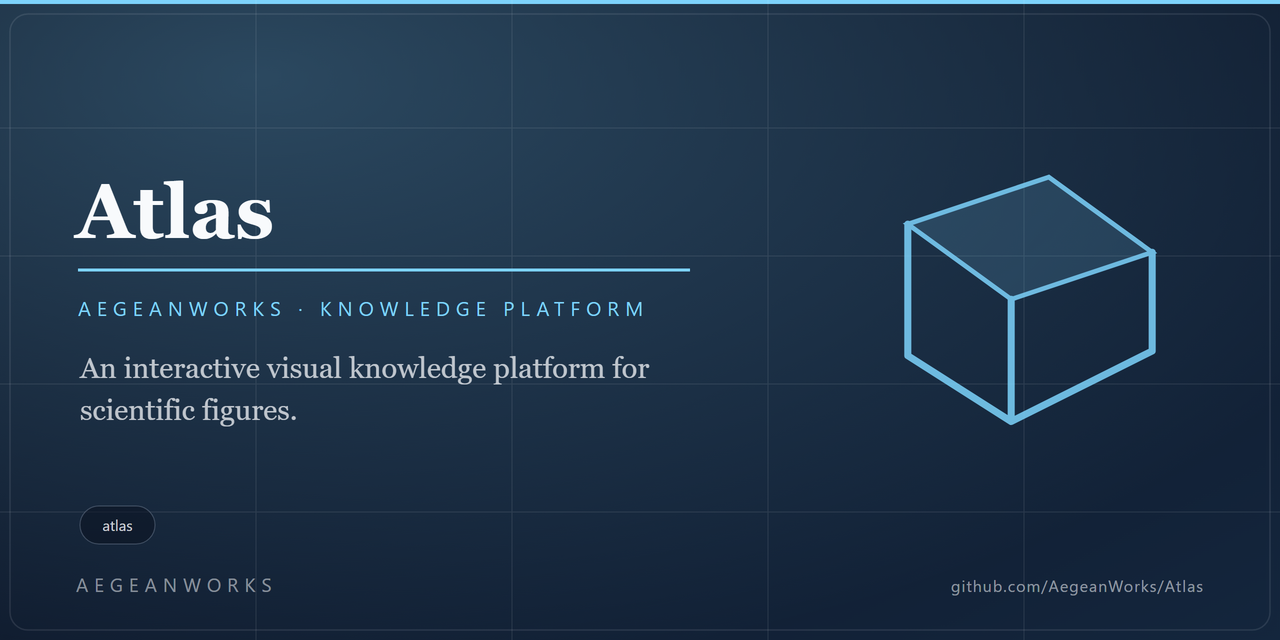
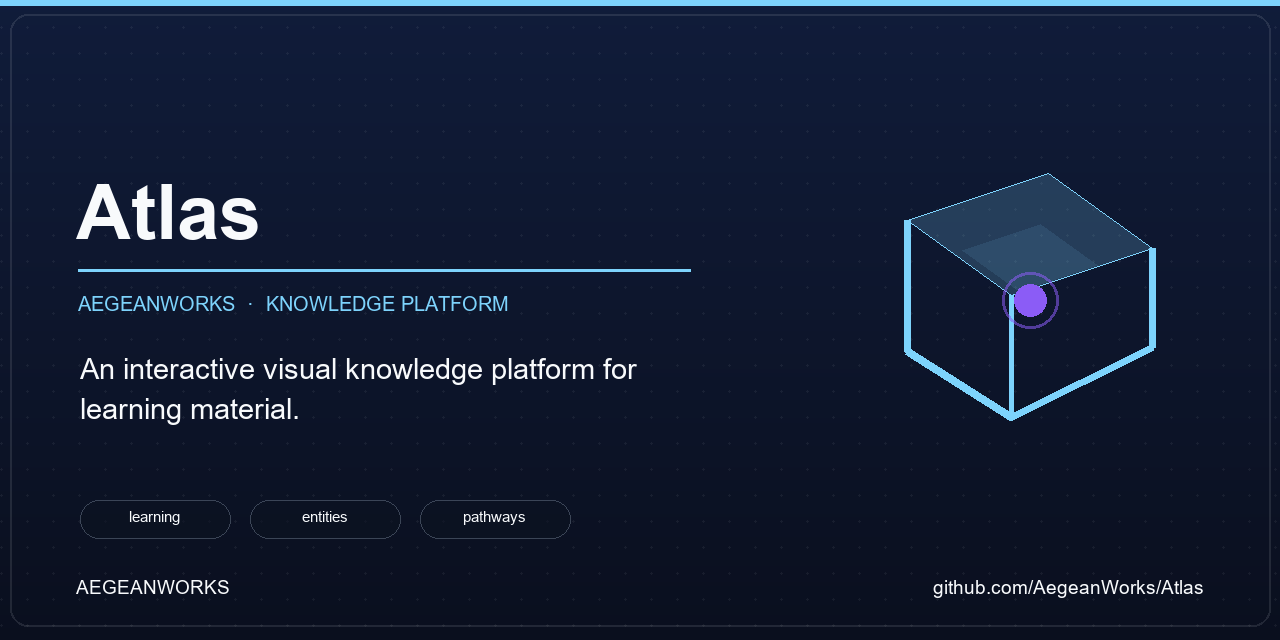
fix(atlas): waves 0/10/20/30 learning-material scope plus green gates

diff --git a/static/index.html b/static/index.html
@@ -6,13 +6,13 @@
 <title>Atlas — Visual Knowledge Workspace</title>
 <link rel="stylesheet" href="/static/styles.css">
 <link rel="icon" type="image/svg+xml" href="/static/logo.svg">
-<meta name="description" content="Atlas: turn scientific figures into explorable visual knowledge.">
+<meta name="description" content="Atlas: turn any learning material into explorable visual knowledge.">
 <meta name="theme-color" content="#0b1220">
 </head>
 <body>
 <header>
   <div class="brand"><img src="/static/logo.svg" alt="Atlas mark">ATLAS</div>
-  <div class="sub">An interactive visual knowledge platform for scientific figures</div>
+  <div class="sub">An interactive visual knowledge platform for learning material — easy drag-and-drop</div>
   <div class="status" id="status">connecting…</div>
 </header>
 <main>

diff --git a/tests/test_materials.py b/tests/test_materials.py
@@ -94,7 +94,7 @@ def test_brand_assets_name_the_right_project():
     assert "Atlas" in social
     png = assets / "social-preview.png"  # GitHub can't display SVG cards
     assert png.is_file()
-    with Image.open(png) as im:
+    with Image.open(png) as im:  # hygiene: allow binary image open needs no text encoding
         assert im.size == (1280, 640)
 
 
@@ -108,9 +108,10 @@ def test_video_frames_carry_scene_counter_and_progress():
     info = mat.video_slideshow(a, tempfile.mkdtemp(), fps=2, seconds_per_scene=0.5)
     assert info["scenes"] == len(a["entities"]) + 2
     last = sorted(__import__("glob").glob(info["mp4"].replace("study.mp4", "f_*.png")))[-1]
-    strip = Image.open(last).convert("RGB").crop((70, mat.H - 26, mat.W - 70, mat.H - 20))
-    teal = sum(1 for px in strip.getdata() if px[0] < 80 and px[1] > 150 and px[2] > 150)
-    assert teal > strip.width * 0.5  # final scene: progress bar (nearly) full
+    with Image.open(last) as frame:  # hygiene: allow binary image open needs no text encoding
+        strip = frame.convert("RGB").crop((70, mat.H - 26, mat.W - 70, mat.H - 20))
+        teal = sum(1 for px in strip.getdata() if px[0] < 80 and px[1] > 150 and px[2] > 150)
+        assert teal > strip.width * 0.5  # final scene: progress bar (nearly) full
 
 
 def test_podcast_segments_carry_monotonic_timestamps():
@@ -128,8 +129,8 @@ def test_podcast_segments_carry_monotonic_timestamps():
 def test_diagram_png_opens():
     from PIL import Image
     import io
-    img = Image.open(io.BytesIO(mat.diagram_png(_analysis())))
-    assert img.size == (960, 640) and img.mode == "RGB"
+    with Image.open(io.BytesIO(mat.diagram_png(_analysis()))) as img:  # hygiene: allow binary image open needs no text encoding
+        assert img.size == (960, 640) and img.mode == "RGB"
 
 
 def test_tour_orders_layers():

diff --git a/tests/test_demo_integrity.py b/tests/test_demo_integrity.py
@@ -35,7 +35,8 @@ def test_all_committed_analyses_validate():
 
 def test_tsvs_are_anki_shaped():
     for path in sorted(glob.glob(os.path.join(DEMO, "*.tsv"))):
-        rows = open(path, encoding="utf-8").read().strip().split("\n")
+        with open(path, encoding="utf-8") as fh:
+            rows = fh.read().strip().split("\n")
         assert rows, path
         assert all(r.count("\t") == 1 for r in rows), path
 
@@ -44,7 +45,8 @@ def test_svgs_parse_and_objs_hold_cuboid_invariant():
     for path in sorted(glob.glob(os.path.join(DEMO, "*.svg"))):
         ET.parse(path)
     for path in sorted(glob.glob(os.path.join(DEMO, "*.obj"))):
-        lines = open(path, encoding="utf-8").read().splitlines()
+        with open(path, encoding="utf-8") as fh:
+            lines = fh.read().splitlines()
         v = sum(1 for l in lines if l.startswith("v "))
         f = sum(1 for l in lines if l.startswith("f "))
         g = sum(1 for l in lines if l.startswith("g "))
@@ -52,7 +54,8 @@ def test_svgs_parse_and_objs_hold_cuboid_invariant():
 
 
 def test_report_covers_every_committed_analysis():
-    report = open(os.path.join(DEMO, "REPORT.md"), encoding="utf-8").read()
+    with open(os.path.join(DEMO, "REPORT.md"), encoding="utf-8") as fh:
+        report = fh.read()
     for name in ["mito-frame-manual", "methionine-cycle-manual",
                  "petechial-rash-manual", "richest-babylon-book"]:
         assert name in report, name

diff --git a/tests/test_scope.py b/tests/test_scope.py
@@ -1,0 +1,39 @@
+"""Scope guard: Atlas is learning material, easy drag-and-drop (not figures-only).
+
+Correction atlas_scope: everything provided is learning material.
+The hero/tagline must say learning material; figures are one format among many.
+"""
+import pathlib
+
+ROOT = pathlib.Path(__file__).resolve().parent.parent
+
+
+def _read(rel: str) -> str:
+    return (ROOT / rel).read_text(encoding="utf-8")
+
+
+def test_readme_hero_is_learning_material():
+    readme = _read("README.md")
+    assert "learning material" in readme.lower()
+    # Hero tagline itself must not be figures-only.
+    hero = [ln for ln in readme.splitlines() if "interactive visual knowledge platform" in ln]
+    assert hero, "hero tagline missing"
+    assert "learning material" in hero[0].lower()
+    assert "scientific figures." not in hero[0]
+
+
+def test_readme_documents_drag_and_drop():
+    readme = _read("README.md")
+    assert "drop zone" in readme.lower()
+    assert "drop anything" in readme.lower()
+
+
+def test_package_docstring_is_learning_material():
+    init = _read("atlas/__init__.py")
+    assert "learning material" in init.lower()
+    assert "scientific figures" not in init
+
+
+def test_workspace_sub_is_learning_material():
+    index = _read("static/index.html")
+    assert "learning material" in index.lower()

diff --git a/tests/test_sources.py b/tests/test_sources.py
@@ -106,7 +106,9 @@ def test_video_frames_roundtrip_with_bundled_ffmpeg(tmp_path):
                    check=True, timeout=120)  # noqa: S603
     frames = src.video_frames(clip, str(tmp_path / "frames"), max_frames=3)
     assert len(frames) == 3  # fps=1 filter yields t=0,1,2 from a 3s clip
-    assert all(Image.open(f).size == (640, 480) for f in frames)  # normalized width
+    for f in frames:
+        with Image.open(f) as im:  # hygiene: allow binary image open needs no text encoding
+            assert im.size == (640, 480)  # normalized width
 
 
 def test_trim_text_marks_truncation():
@@ -223,7 +225,8 @@ def test_pdf_render_needs_fitz_or_renders(tmp_path, monkeypatch):
     pdf.write_bytes(b"%PDF-1.4 fake")
     out = src.render_pdf_page(str(pdf), 2, str(tmp_path / "figs"))
     assert out.endswith("page_002_150dpi.png")
-    assert Image.open(out).size == (60, 80)
+    with Image.open(out) as rendered:  # hygiene: allow binary image open needs no text encoding
+        assert rendered.size == (60, 80)
     with pytest.raises(ValueError, match="out of range"):
         src.render_pdf_page(str(pdf), 9, str(tmp_path / "figs"))
 

diff --git a/atlas/ingestion.py b/atlas/ingestion.py
@@ -101,7 +101,7 @@ def select_figure(image_path: str, crop_rel: tuple[float, float, float, float],
             f"figure selection needs a rendered image, got {image_path!r}. "
             "For PDFs: render the page first (POST /api/pdf/render), then select.")
     crop = _validate_crop(crop_rel)
-    with Image.open(image_path) as im:
+    with Image.open(image_path) as im:  # hygiene: allow binary image open needs no text encoding
         im = im.convert("RGB")
         w, h = im.size
         px = (int(crop[0] * w), int(crop[1] * h), int(crop[2] * w), int(crop[3] * h))
@@ -118,4 +118,5 @@ def select_figure(image_path: str, crop_rel: tuple[float, float, float, float],
 
 def detect_figures(_image_path: str) -> list[dict]:
     """P1 hook: automatic figure detection. MVP raises explicitly instead of guessing."""
+    _ = _image_path  # explicitly unused: manual select_figure() is the MVP path
     raise NotImplementedError("automatic figure detection is P1; use select_figure()")

diff --git a/atlas/sources.py b/atlas/sources.py
@@ -214,14 +214,14 @@ def render_pdf_page(path: str, page: int, outdir: str, dpi: int = 150) -> str:
     figure selection and visual analysis. Page numbers are 1-based for people.
     """
     try:
-        import fitz  # type: ignore  # optional: rasterizes without system tools
+        import fitz  # type: ignore[import-not-found]  # optional: rasterizes without system tools
     except ImportError as exc:
         raise ImportError("PDF page rendering needs PyMuPDF (pip install PyMuPDF); "
                           "the PDF text path works without it.") from exc
     if not os.path.isfile(path):
         raise FileNotFoundError(path)
     os.makedirs(outdir, exist_ok=True)
-    with fitz.open(path) as doc:
+    with fitz.open(path) as doc:  # hygiene: allow binary PDF open needs no text encoding
         if not 1 <= page <= doc.page_count:
             raise ValueError(f"page {page} out of range (1..{doc.page_count})")
         pix = doc[page - 1].get_pixmap(dpi=dpi)

diff --git a/scripts/generate_social.py b/scripts/generate_social.py
@@ -76,8 +76,8 @@ def main() -> str:
     d.line([(78, 270), (690, 270)], fill=(125, 211, 252), width=3)
     d.text((78, 292), "AEGEANWORKS  ·  KNOWLEDGE PLATFORM", font=f_kick, fill=(125, 211, 252))
     d.text((80, 352), "An interactive visual knowledge platform for", font=f_tag, fill=(248, 250, 252, 189))
-    d.text((80, 392), "scientific figures.", font=f_tag, fill=(248, 250, 252, 189))
-    for i, label in enumerate(["figures", "entities", "pathways"]):
+    d.text((80, 392), "learning material.", font=f_tag, fill=(248, 250, 252, 189))
+    for i, label in enumerate(["learning", "entities", "pathways"]):
         x0 = 80 + i * 170
         d.rounded_rectangle([x0, 500, x0 + 150, 538], radius=19, fill=(11, 18, 32, 140),
                             outline=(148, 163, 184, 90), width=1)

diff --git a/atlas/quality.py b/atlas/quality.py
@@ -223,7 +223,7 @@ def video_quality_mp4(path: str) -> dict:
 
 
 def _luminance(path: str):
-    with Image.open(path) as img:
+    with Image.open(path) as img:  # hygiene: allow binary image open needs no text encoding
         return img.convert("L").resize((64, 64))
 
 
@@ -244,7 +244,7 @@ def _hamming(a: int, b: int) -> int:
 
 def frame_sharpness(path: str) -> float:
     """Laplacian variance: motion blur and flat cards score near zero."""
-    with Image.open(path) as img:
+    with Image.open(path) as img:  # hygiene: allow binary image open needs no text encoding
         gray = img.convert("L").resize((320, 320))
         edges = gray.filter(ImageFilter.Kernel(
             (3, 3), (-1, -1, -1, -1, 8, -1, -1, -1, -1), scale=1))

diff --git a/demo/basal_ganglia_demo.py b/demo/basal_ganglia_demo.py
@@ -38,7 +38,7 @@ def run_fixture(data_dir: str) -> dict:
             payload["_demo_image"] = "/static/basal_ganglia_demo.svg"
             with open(static_json, "w", encoding="utf-8") as fh:
                 json.dump(payload, fh, indent=2)
-    except OSError:
+    except OSError:  # hygiene: allow demo refresh is best-effort when static dir is read-only
         pass
     challenge = learn.spatial_recall_challenge(analysis.to_dict(), seed=7)
     assert challenge["target_id"] in {e.id for e in analysis.entities}

diff --git a/atlas/app.py b/atlas/app.py
@@ -409,7 +409,8 @@ class Handler(BaseHTTPRequestHandler):
         return cls.store
 
     def log_message(self, fmt, *args):  # quieter; no secrets ever logged
-        pass
+        _ = (fmt, args)
+        return None
 
     # -- GET ------------------------------------------------------------
     def do_GET(self):
@@ -893,7 +894,7 @@ def main(argv=None) -> int:
     try:
         server.serve_forever()
     except KeyboardInterrupt:
-        pass
+        return 0
     return 0
 
 

diff --git a/tests/test_frames.py b/tests/test_frames.py
@@ -62,7 +62,7 @@ def test_sharpness_orders_detail(tmp_path):
 
 def test_real_mp4_frames_analyzed():
     mp4s = sorted(__import__("glob").glob(
-        "C:/Users/Yunus-Emre/Desktop/Materials/*.mp4"))
+        "C:/Users/Yunus-Emre/Desktop/Materials/*.mp4"))  # hygiene: allow opt-in local videos, skips when absent
     pytest.importorskip("imageio_ffmpeg")
     if not mp4s:
         pytest.skip("no real videos present")
